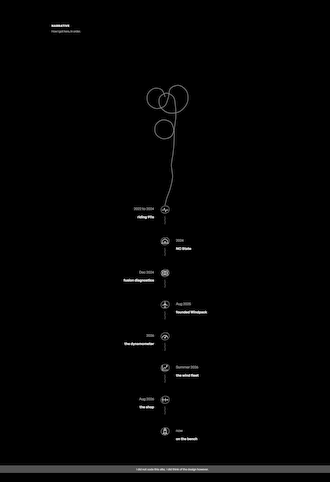
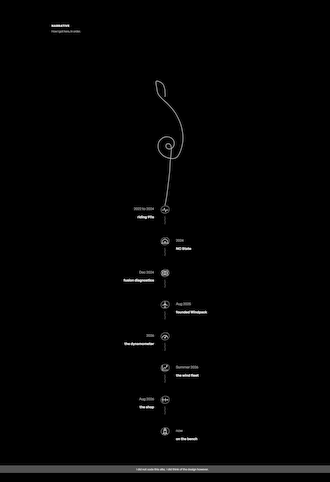
Redraw the overture line, and put the dot back on it
The old line read as two round loops over a long straight stem, which
was not the intention. It is now: straight up out of the launch, counter
clockwise only as far as horizontal, then over to clockwise and opening
out on the golden ratio, then a tight clockwise spiral once it is below
where it started, then out and down to the timeline.

The generator is rewritten to take that description more or less
literally. Each segment starts from the point and heading the last one
ended on, so there are no junctions left to solve by hand, and a new
gold segment does a proper logarithmic spiral rather than a circle with
a sliding radius. Two things learned the hard way and written down: a
gold segment's exit heading is its entry heading plus its turn whatever
the growth, which is how the descent stopped starting with a corner; and
a spiral only nests if its centre holds still, so the falling is done by
the opening sweep before it rather than by dragging the spiral down.

Also, the dot was never actually on its own line. offset-anchor already
centres the box on the path, and the old -7px margin was shifting it
again on top of that, so it rode 10px up and left of the pen tip the
whole way down. Measured 9.89px before, 0.32px after.

The line was hard to see at 55% on black, so it is at 85% now and a
shade thicker.

Changed region(s): [[0.4242, 0.1556, 0.5758, 0.4357]]

diff --git a/assets/css/site.css b/assets/css/site.css
@@ -733,7 +733,7 @@ body.split { overflow: hidden; }
   inset: 0;
   overflow: visible;
   color: var(--text);
-  opacity: 0.55;
+  opacity: 0.85;
 }
 
 .ov-path {
@@ -755,8 +755,10 @@ body.split { overflow: hidden; }
   top: 0;
   width: 14px;
   height: 14px;
-  margin: -7px 0 0 -7px;
-  offset-path: path("M200 150 C 200 150, 193.3 125.1, 185.1 119.1 C 176.8 113.1, 160.4 111.1, 150.3 114.4 C 140 117.9, 128.1 129.5, 124.1 140 C 120 150.8, 121.2 168.5, 127 178.6 C 132.9 188.9, 148 199.2, 159.8 201.2 C 171.6 203.1, 188.8 198.4, 197.8 190.7 C 206.8 183, 209.7 167.8, 214 155.3 C 218.6 142.2, 215.9 123, 224.1 113.9 C 232.1 105.1, 250 98.7, 261.6 100.7 C 273.7 102.8, 289.1 115.5, 295.1 127.5 C 301.5 140.1, 302.1 161.1, 297.2 175.4 C 292 190.2, 277.8 207.2, 263.7 214.6 C 249.7 221.9, 227.7 224.1, 213.2 219.8 C 199.5 215.6, 184.1 202.9, 178.3 191.1 C 173 180.3, 172 162.7, 176.9 153.2 C 181.5 144.2, 195.4 135, 205.2 134.5 C 215.2 134, 229.7 142.1, 236.5 150.8 C 243.7 160.1, 243.7 177.6, 245.4 190.1 C 247 201.2, 247.1 211.4, 247.1 222 C 247.2 232.6, 247.6 241.4, 245.7 253.9 C 242.9 272.5, 240.1 309.6, 227.8 322.1 C 218.6 331.5, 200.9 335.1, 189.3 332.9 C 177.9 330.7, 163.6 319.8, 158.8 309.6 C 154 299.7, 154.6 282.7, 159.7 273 C 164.7 263.3, 178.2 253.2, 188.9 251.3 C 199.9 249.4, 216.5 254.3, 224.9 261.9 C 233.3 269.5, 236.7 284.3, 239.2 297.1 C 242.1 311.4, 240.1 328, 239.5 344 C 238.9 360.9, 237.3 378.7, 235.3 396 C 233.4 413.4, 228.3 430.7, 227.9 448 C 227.5 465.3, 233.9 482.9, 233 500 C 232.1 517, 227.3 534.2, 222.8 550.2 C 218.6 565.5, 211.3 580.8, 207.3 594.1 C 204.1 604.9, 200 624, 200 624");
+  /* offset-anchor already puts the middle of this box on the line. the old
+     -7px margin that used to do that job by hand is still a shift on top of
+     it, which is why the dot rode 10px up and left of its own pen tip. */
+  offset-path: path("M200 150 C 200 150, 200.9 143.3, 200.9 140 C 200.9 136.7, 200.1 133.3, 199.9 130 C 199.6 126.7, 200.4 124.1, 199.6 120.1 C 198.2 113.2, 195.2 99.4, 189 93 C 182.7 86.8, 166.5 79.3, 162.2 82.3 C 157.9 85.4, 162.7 103.3, 164.1 112.7 C 165.3 121.1, 166 129.1, 169.4 136.3 C 172.8 143.7, 178.5 149.6, 184.8 156.5 C 192.3 164.7, 203.1 171.9, 212.3 181.7 C 223.4 193.3, 236.2 206.8, 245.8 222.4 C 256.4 239.8, 266.9 260.9, 272 282.3 C 277.5 304.6, 280.6 331.3, 276.4 353.8 C 272.4 375.9, 262.8 408, 248.1 416.5 C 235.7 423.6, 212.7 418.2, 199.8 411.7 C 187.9 405.7, 176.4 392.9, 172.3 381.5 C 168.4 371, 169.2 356, 173.6 346.7 C 177.6 338.2, 187.3 330.1, 195.6 326.9 C 203.2 323.9, 213.8 324.1, 221 326.8 C 227.7 329.3, 234.7 335.7, 237.7 341.7 C 240.5 347.3, 240.9 355.5, 239.3 361.2 C 237.8 366.4, 233.7 371.8, 229.6 374.6 C 225.8 377.2, 220.1 378.6, 216.1 378 C 212.4 377.5, 208.2 374.8, 206.2 372.1 C 204.4 369.7, 203.7 365.7, 204.1 363 C 204.5 360.5, 206.3 357.7, 208.3 356.3 C 210.1 355, 212.9 354.5, 215.3 354.9 C 218.2 355.5, 222.1 357.6, 224.2 360.5 C 226.8 364.2, 227.2 369.5, 227.6 376.8 C 228.5 390.8, 223.7 421.2, 222.4 439.1 C 221.5 452.7, 221.6 461.8, 220.5 475 C 219.1 491.4, 216.4 511.8, 214.3 530 C 212.1 548.3, 209.9 567.9, 207.3 584.6 C 205.1 598.8, 200 624, 200 624");
   offset-rotate: 0deg;
   offset-anchor: 50% 50%;
   offset-distance: 0%;

diff --git a/index.html b/index.html
@@ -169,8 +169,8 @@
            alt="Placeholder, the other" />
 
       <svg class="ov-draw" viewBox="0 0 400 620" width="400" height="620" fill="none" aria-hidden="true">
-        <path class="ov-path" pathLength="100" d="M200 150 C 200 150, 193.3 125.1, 185.1 119.1 C 176.8 113.1, 160.4 111.1, 150.3 114.4 C 140 117.9, 128.1 129.5, 124.1 140 C 120 150.8, 121.2 168.5, 127 178.6 C 132.9 188.9, 148 199.2, 159.8 201.2 C 171.6 203.1, 188.8 198.4, 197.8 190.7 C 206.8 183, 209.7 167.8, 214 155.3 C 218.6 142.2, 215.9 123, 224.1 113.9 C 232.1 105.1, 250 98.7, 261.6 100.7 C 273.7 102.8, 289.1 115.5, 295.1 127.5 C 301.5 140.1, 302.1 161.1, 297.2 175.4 C 292 190.2, 277.8 207.2, 263.7 214.6 C 249.7 221.9, 227.7 224.1, 213.2 219.8 C 199.5 215.6, 184.1 202.9, 178.3 191.1 C 173 180.3, 172 162.7, 176.9 153.2 C 181.5 144.2, 195.4 135, 205.2 134.5 C 215.2 134, 229.7 142.1, 236.5 150.8 C 243.7 160.1, 243.7 177.6, 245.4 190.1 C 247 201.2, 247.1 211.4, 247.1 222 C 247.2 232.6, 247.6 241.4, 245.7 253.9 C 242.9 272.5, 240.1 309.6, 227.8 322.1 C 218.6 331.5, 200.9 335.1, 189.3 332.9 C 177.9 330.7, 163.6 319.8, 158.8 309.6 C 154 299.7, 154.6 282.7, 159.7 273 C 164.7 263.3, 178.2 253.2, 188.9 251.3 C 199.9 249.4, 216.5 254.3, 224.9 261.9 C 233.3 269.5, 236.7 284.3, 239.2 297.1 C 242.1 311.4, 240.1 328, 239.5 344 C 238.9 360.9, 237.3 378.7, 235.3 396 C 233.4 413.4, 228.3 430.7, 227.9 448 C 227.5 465.3, 233.9 482.9, 233 500 C 232.1 517, 227.3 534.2, 222.8 550.2 C 218.6 565.5, 211.3 580.8, 207.3 594.1 C 204.1 604.9, 200 624, 200 624"
-              stroke="currentColor" stroke-width="1.5" stroke-linecap="round"
+        <path class="ov-path" pathLength="100" d="M200 150 C 200 150, 200.9 143.3, 200.9 140 C 200.9 136.7, 200.1 133.3, 199.9 130 C 199.6 126.7, 200.4 124.1, 199.6 120.1 C 198.2 113.2, 195.2 99.4, 189 93 C 182.7 86.8, 166.5 79.3, 162.2 82.3 C 157.9 85.4, 162.7 103.3, 164.1 112.7 C 165.3 121.1, 166 129.1, 169.4 136.3 C 172.8 143.7, 178.5 149.6, 184.8 156.5 C 192.3 164.7, 203.1 171.9, 212.3 181.7 C 223.4 193.3, 236.2 206.8, 245.8 222.4 C 256.4 239.8, 266.9 260.9, 272 282.3 C 277.5 304.6, 280.6 331.3, 276.4 353.8 C 272.4 375.9, 262.8 408, 248.1 416.5 C 235.7 423.6, 212.7 418.2, 199.8 411.7 C 187.9 405.7, 176.4 392.9, 172.3 381.5 C 168.4 371, 169.2 356, 173.6 346.7 C 177.6 338.2, 187.3 330.1, 195.6 326.9 C 203.2 323.9, 213.8 324.1, 221 326.8 C 227.7 329.3, 234.7 335.7, 237.7 341.7 C 240.5 347.3, 240.9 355.5, 239.3 361.2 C 237.8 366.4, 233.7 371.8, 229.6 374.6 C 225.8 377.2, 220.1 378.6, 216.1 378 C 212.4 377.5, 208.2 374.8, 206.2 372.1 C 204.4 369.7, 203.7 365.7, 204.1 363 C 204.5 360.5, 206.3 357.7, 208.3 356.3 C 210.1 355, 212.9 354.5, 215.3 354.9 C 218.2 355.5, 222.1 357.6, 224.2 360.5 C 226.8 364.2, 227.2 369.5, 227.6 376.8 C 228.5 390.8, 223.7 421.2, 222.4 439.1 C 221.5 452.7, 221.6 461.8, 220.5 475 C 219.1 491.4, 216.4 511.8, 214.3 530 C 212.1 548.3, 209.9 567.9, 207.3 584.6 C 205.1 598.8, 200 624, 200 624"
+              stroke="currentColor" stroke-width="1.7" stroke-linecap="round"
               vector-effect="non-scaling-stroke" />
       </svg>
 

diff --git a/README.md b/README.md
@@ -38,6 +38,15 @@ line is generated by `.claude/make_overture_path.py`, which prints the `d` strin
 to be pasted in **two** places that must stay identical, or the dot will drift off the
 line: the `.ov-path` `d` in `index.html` and the `offset-path` in `site.css`.
 
+The generator is written the way you would describe the line out loud: straight for a bit,
+then turn this way this hard, then that way, loosening. Each segment starts from the point
+and heading the last one ended on, so the curve is continuous by construction. A `gold`
+segment is a logarithmic spiral (radius multiplies by a fixed factor every quarter turn,
+which is what makes a Fibonacci spiral a spiral); growth above 1 opens it out, below 1
+winds it in. Useful fact when tuning: a `gold` segment's **exit heading is just its entry
+heading plus its turn**, whatever the growth, so size the last one to finish pointing down
+the page or the join into the descent shows as a corner.
+
 `projects/rocket-avionics.html` is **unlisted**: it is not linked from the index and is
 marked `noindex`. It goes back on the index once the project has flown.
 
